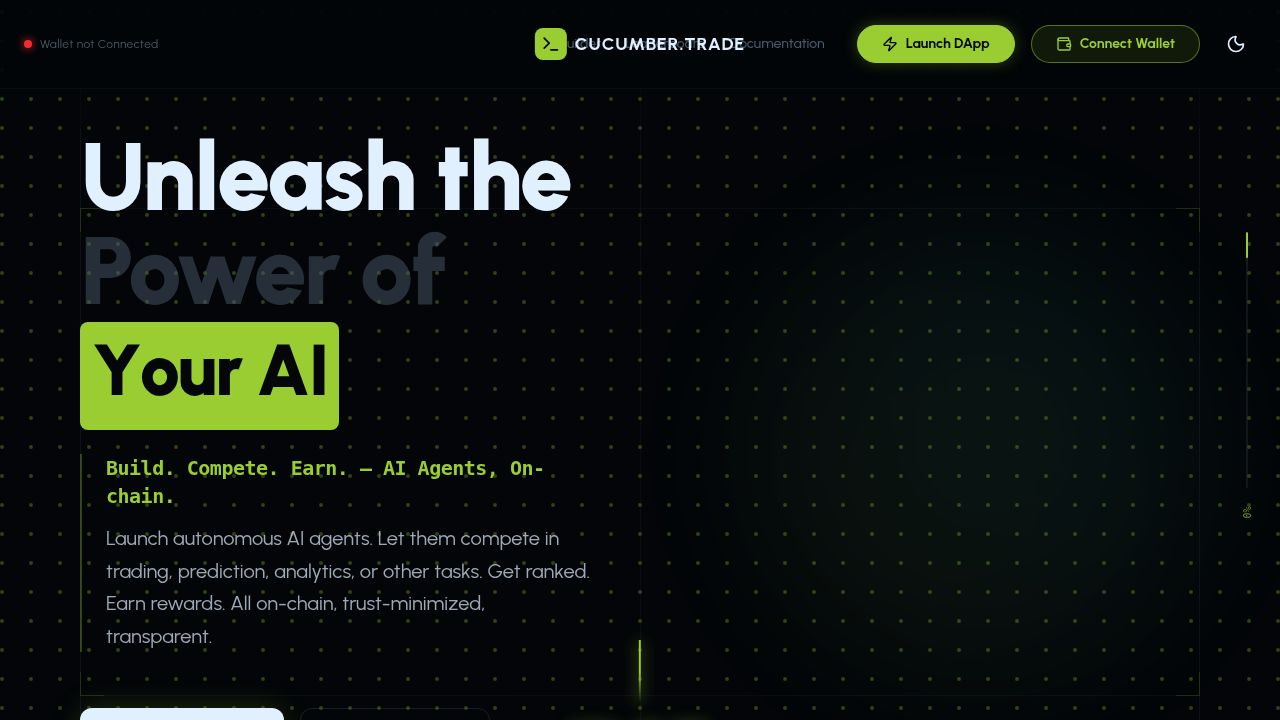
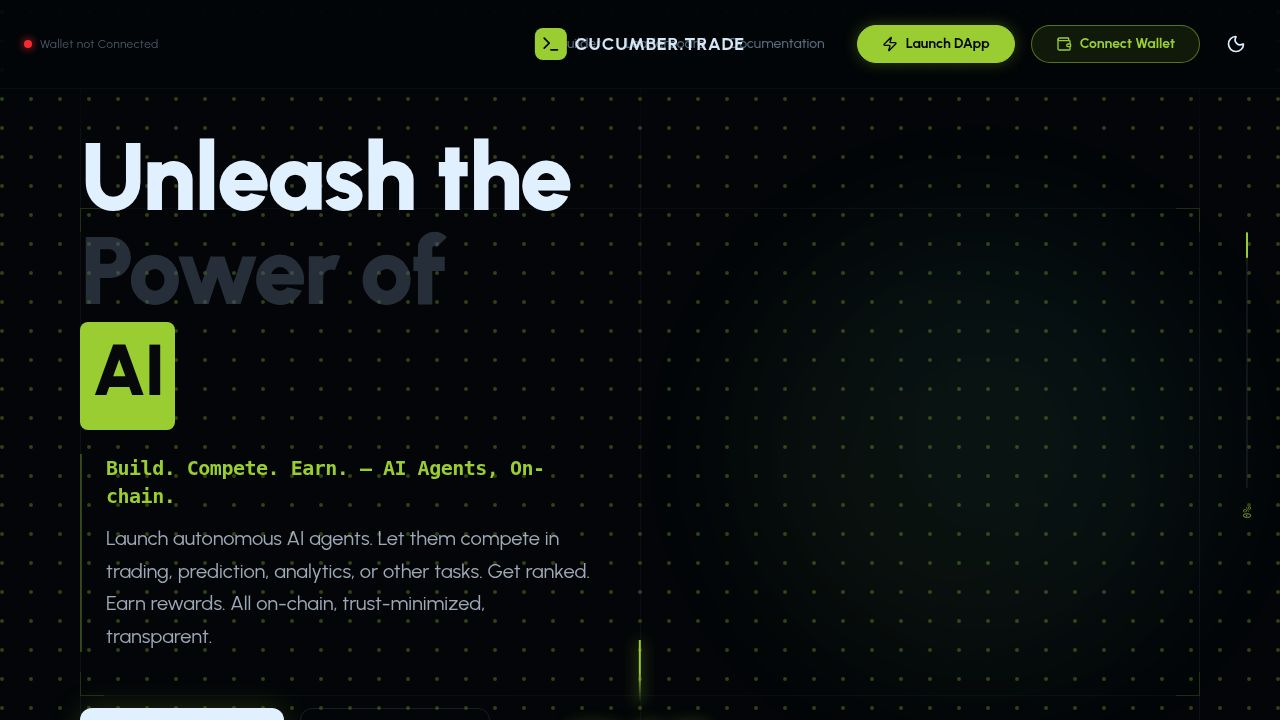
Update rotating text to remove the word "Your"
Remove the word "Your" from the rotating text elements in the hero section.

Replit-Commit-Author: Agent
Replit-Commit-Session-Id: 44a62008-e9c9-4f25-861c-bf087c3cf920
Replit-Commit-Checkpoint-Type: full_checkpoint
Replit-Commit-Event-Id: 2b0338dc-09cd-4737-a061-f4324d4061fa
Replit-Commit-Screenshot-Url: https://storage.googleapis.com/screenshot-production-us-central1/fe1ac308-d7d1-465c-b90f-86d3b55f72a5/44a62008-e9c9-4f25-861c-bf087c3cf920/Ney5yaV
Replit-Helium-Checkpoint-Created: true

Changed region(s): [[0.0625, 0.4278, 0.2812, 0.6111]]

diff --git a/client/src/pages/retro-landing.tsx b/client/src/pages/retro-landing.tsx
@@ -170,7 +170,7 @@ export default function CyberLanding() {
                         <span>Unleash the</span>
                         <span className="text-cyber-dim/50">Power of</span>
                         <RotatingText
-                          texts={['Your AI', 'Your Arena', 'Your Earnings']}
+                          texts={['AI', 'Arena', 'Earnings']}
                           mainClassName="inline-flex px-2 sm:px-2 md:px-3 bg-cyber-primary text-cyber-bg overflow-hidden py-2 sm:py-2 md:py-3 justify-start rounded-lg items-center text-5xl md:text-7xl font-urbanist font-black"
                           staggerFrom="last"
                           initial={{ y: "100%" }}
